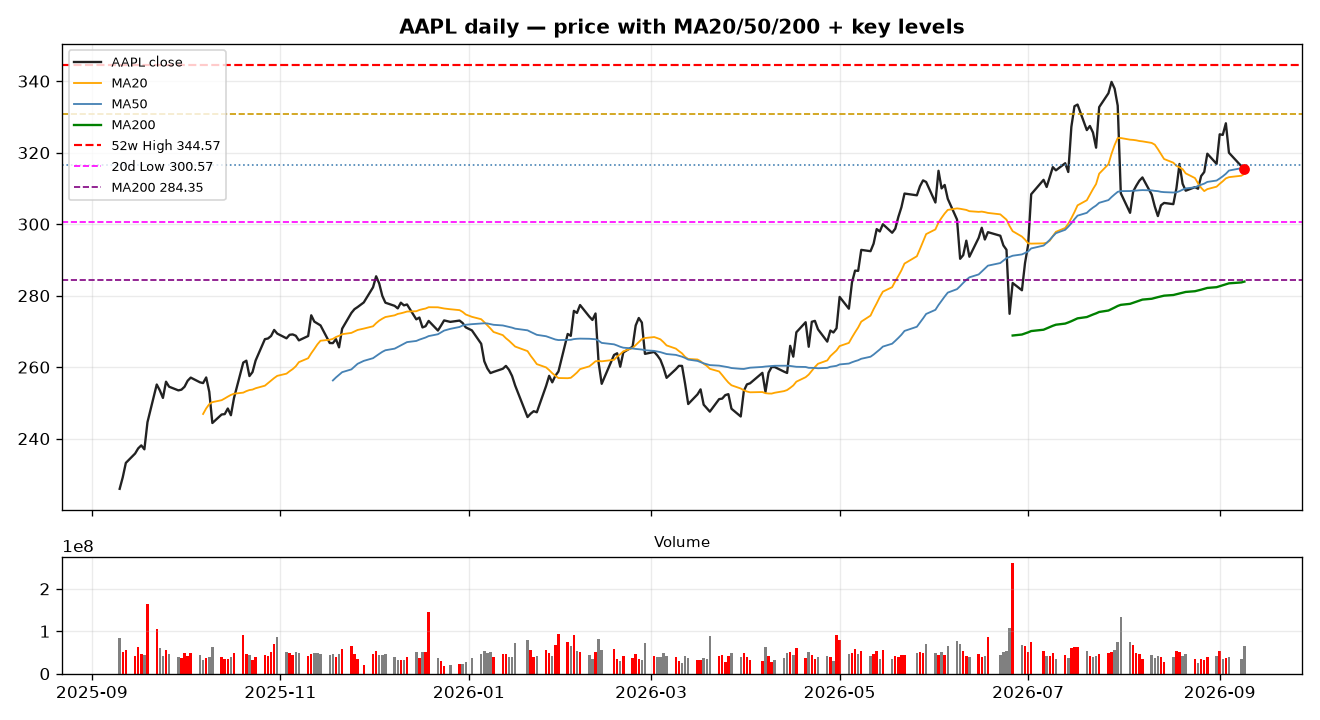
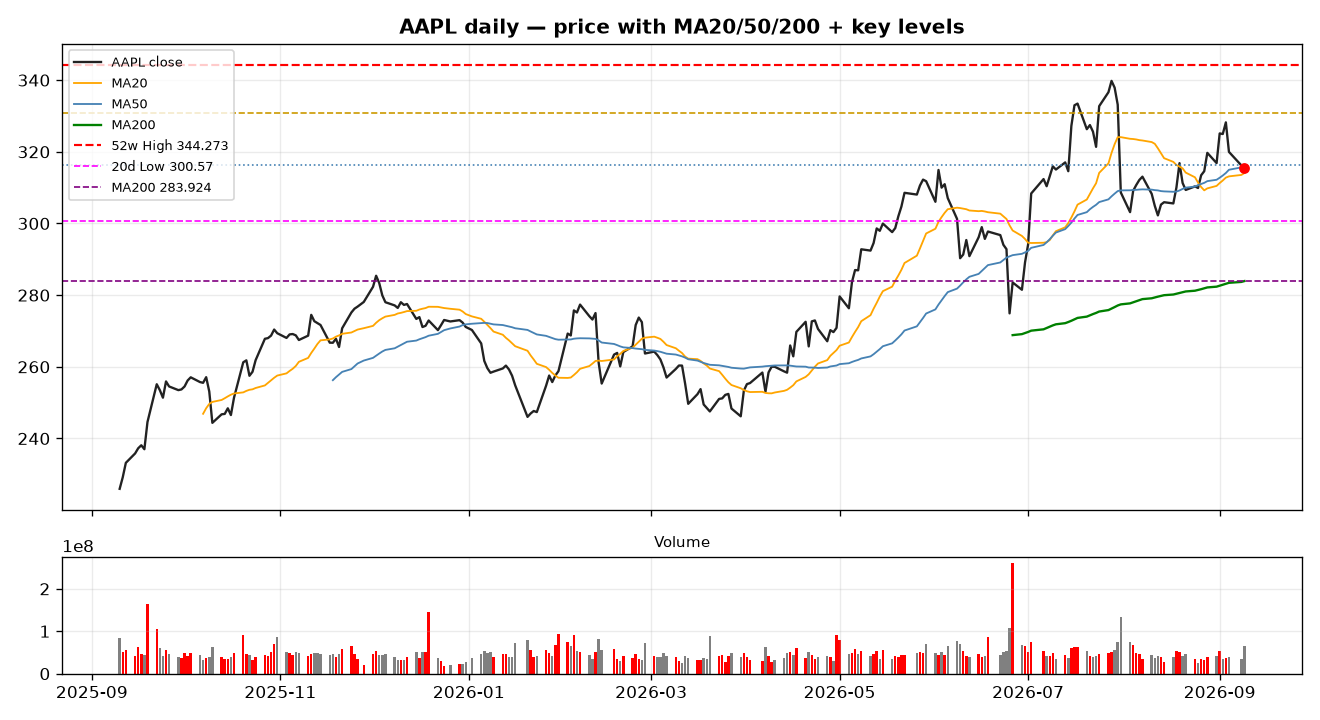
deploy: tv-aapl/ from tv-aapl-deploy

diff --git a/tv-aapl/index.html b/tv-aapl/index.html
@@ -28,19 +28,19 @@
 
 <div class="chart">
   <img src="aapl_tech.png" alt="AAPL daily chart with MAs and key levels">
-  <div class="cap">AAPL daily — price with MA20/50/200 + key levels (344.57 52-week high, 330.81 20-day high, 316.47 MA50, 300.57 20-day low, 284.35 MA200). Reference chart; on TradingView build it in-chart per the drawing memo.</div>
+  <div class="cap">AAPL daily — price with MA20/50/200 + key levels (344.273 52-week high, 330.81 20-day high, 316.318 MA50, 300.57 20-day low, 283.924 MA200). Reference chart; on TradingView build it in-chart per the drawing memo.</div>
 </div>
 
 <h2>The technical tape</h2>
-<p>The setup, not the keynote, is the story. AAPL set its 52-week high of <b>344.57 on July 29</b>, then sold off ~10% from that high on the July 31 earnings day (closing 308.91) and drifted through August in a 300–330 range. It walked into the September 9 event already <b>~8% below the high</b> — and the event itself closed essentially flat (<b>-0.28%, at 315.34</b>). So the 8.5% gap to 344.57 is a ceiling that predates the launch, not a reaction to it. Price now sits on the 20-day MA (314.06) and just under the 50-day MA (316.47): pausing at resistance, not breaking out.</p>
+<p>The setup, not the keynote, is the story. AAPL set its 52-week high of <b>344.273 on July 29</b>, then sold off ~10% from that high on the July 31 earnings day (closing 308.91) and drifted through August in a 300–330 range. It walked into the September 9 event already <b>~8% below the high</b> — and the event itself closed essentially flat (<b>-0.28%, at 315.34</b>). So the 8.4% gap to 344.273 is a ceiling that predates the launch, not a reaction to it. Price now sits on the 20-day MA (314.06) and just under the 50-day MA (316.318): pausing at resistance, not breaking out.</p>
 <ul>
-  <li><b>Close 315.34</b> — on the MA20 (314.06), ~0.4% below the MA50 (316.47), and a solid <b>11% above the MA200 (284.35)</b>. The long-term trend is intact; the short-term momentum has cooled.</li>
+  <li><b>Close 315.34</b> — on the MA20 (314.06), ~0.3% below the MA50 (316.318), and a solid <b>11% above the MA200 (283.924)</b>. The long-term trend is intact; the short-term momentum has cooled.</li>
   <li><b>RSI(14) = 48.4</b> — dead neutral. No overbought froth to unwind, but no momentum thrust either.</li>
   <li><b>MACD 1.80 vs signal 1.37</b>, histogram +0.43 — still positive, but the gap is thin and the pullback off the highs says the bullish push is losing steam.</li>
   <li><b>ATR(14) = 7.39 (~2.3% of price)</b> — the name swings about 2% a day, so size stops to the range.</li>
   <li>The last five sessions: <b>324.96 → 328.21 → 319.97 → 316.22 → 315.34</b>. A brief pop to 328, then a steady fade into and through the event — no pre-event surge to the highs.</li>
 </ul>
-<p>The levels that matter: <b>resistance at 330.81 (20-day high)</b> and <b>344.57 (52-week high)</b> — the event failed to reclaim either. On the downside, <b>support is the 300.57 shelf (20-day low / psychological 300)</b>, then the real line in the sand: <b>the MA200 at 284.35</b>, which defines whether the long-term uptrend is still standing.</p>
+<p>The levels that matter: <b>resistance at 330.81 (20-day high)</b> and <b>344.273 (52-week high)</b> — the event failed to reclaim either. On the downside, <b>support is the 300.57 shelf (20-day low / psychological 300)</b>, then the real line in the sand: <b>the MA200 at 283.924</b>, which defines whether the long-term uptrend is still standing.</p>
 
 <h2>The fundamental dynamic</h2>
 <p>Strip out the event noise and the business is still a cash machine. As of the latest data:</p>
@@ -54,7 +54,7 @@
 
 <h2>The narrative the market is wrestling with</h2>
 <ul>
-  <li><b>The de-rating predates the keynote.</b> AAPL was already ~8–12% below its July 29 peak (344.57) after the late-July earnings sell-off, and faded into September. The event didn't trigger a "sell-the-news" dump — it just failed to recover the lost ground, closing flat (-0.28%).</li>
+  <li><b>The de-rating predates the keynote.</b> AAPL was already ~8–12% below its July 29 peak (344.273) after the late-July earnings sell-off, and faded into September. The event didn't trigger a "sell-the-news" dump — it just failed to recover the lost ground, closing flat (-0.28%).</li>
   <li><b>Supply, not demand, is the 2026 constraint.</b> Counterpoint pegs 2026 shipments at a capped ~6M units (vs optimistic 10–20M forecasts) — a slow ramp limits the near-term revenue contribution.</li>
   <li><b>The China AI gap.</b> The new Siri / on-device AI ships English-beta first; Chinese-language and China-feature support has no timeline. In Apple's largest market, the headline AI story is "not yet."</li>
   <li><b>Old models also got more expensive.</b> Across-the-board price hikes (blamed on memory costs) landed as a "sticker shock" alongside the Duo — a margin win, but a consumer-relations risk.</li>
@@ -63,7 +63,7 @@
 
 <h2>What we are watching <span style="font-size:12px;color:#888;font-weight:normal">(observation, not a call)</span></h2>
 <ul>
-  <li>Whether AAPL can <b>reclaim 330.81, then 344.57</b> — a close back above the 52-week high would say the market believes the Duo thesis.</li>
+  <li>Whether AAPL can <b>reclaim 330.81, then 344.273</b> — a close back above the 52-week high would say the market believes the Duo thesis.</li>
   <li>The <b>300 / 284 shelf</b> — a hold above the MA200 keeps the long-term uptrend; a weekly close below it changes the regime.</li>
   <li><b>Oct 23 launch sell-through</b> and early Duo units — the first hard data on whether $1,999 is a price or a ceiling.</li>
   <li>Any <b>China AI timeline</b> — the single biggest swing factor for the growth narrative in that market.</li>
